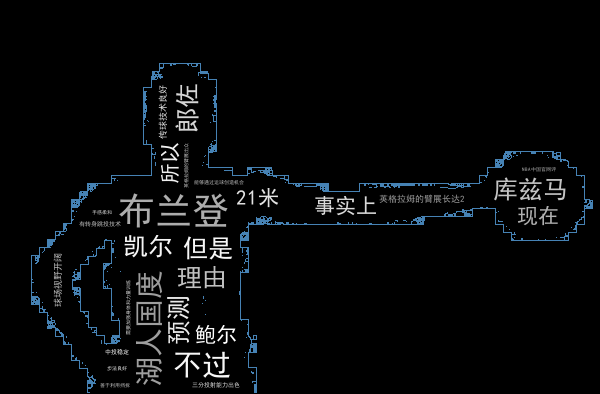
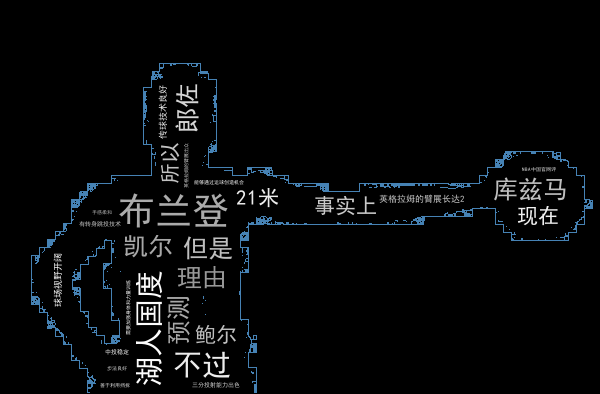
update my profile

diff --git a/worldCloud.py b/worldCloud.py
@@ -12,6 +12,7 @@ import random
 
 import os
 
+#生成一张词云颜色是由灰色往白色随机
 def grey_color_func(word, font_size, position, orientation, random_stata=None, **kwargs):
 
     #颜色HSL(色度、饱和度、亮度),亮度随机
@@ -22,12 +23,12 @@ def grey_color_func(word, font_size, position, orientation, random_stata=None, *
 d = path.dirname(__file__)
 
 #读取背景图片
-
+#根据文档说明，遮罩图片的白色部分将被视作透明，只在非白色部分区域作图。找到黑色背景素材图。
 mask = np.array(Image.open(path.join(d, 'ingram3.jpg')))
 
 #读取一个txt文件
 
-text = open(u'source.txt', encoding='utf-8').read()
+text = open('source.txt', encoding='utf-8').read()
 
 #停用词词库
 
@@ -40,7 +41,7 @@ stopwords.add("ext")
 #设置词云属性，其中第一个参数非常重要，若没有正确设置，
 
 #将不能解析中文，出现乱码
-
+#从文本生成词云图
 wc = WordCloud(font_path='./fonts/simhei.ttf', max_words=2000, mask=mask,
 
                stopwords=stopwords, margin=10,
@@ -49,19 +50,21 @@ wc = WordCloud(font_path='./fonts/simhei.ttf', max_words=2000, mask=mask,
                contour_width=1, contour_color='steelblue',
 
                random_state=2).generate(text)
-
+#以numpy矩阵的格式返回词云图
 default_colors = wc.to_array()
 
 plt.title("Custom colors")
+#重新上色
+#random_state:随机种子，整型或None
+plt.imshow(wc.recolor(color_func=grey_color_func, random_state=None))
 
-plt.imshow(wc.recolor(color_func=grey_color_func, random_state=3))
-
+#保存图片
 wc.to_file('001.png')
 
 plt.axis("off")#不显示坐标尺寸
 
 #显示生成的ciyun
-
+#画图
 plt.figure()
 plt.title("Mixure colors")
 

diff --git a/profile.py b/profile.py
@@ -1,0 +1,57 @@
+from os import path
+from PIL import Image#打开图片
+import numpy as np#用矩阵加载图片数据
+import matplotlib.pyplot as plt#画图
+from wordcloud import WordCloud,STOPWORDS
+import random
+
+#获取当前根目录
+pwd = path.dirname(__file__)
+txt_path = path.join(pwd, 'bigdata.txt')
+#读取数据源文件
+text = open(txt_path, encoding='utf-8').read()
+
+image_path = path.join(pwd, 'huge.jpg')
+#image打开图片
+image_open = Image.open(image_path)
+#使用numpy加载图片矩阵信息
+alice_mask = np.array(image_open)
+
+#排除文本种的单词，譬如said
+stopwords = STOPWORDS.add("said")
+
+wc = WordCloud(
+            #background_color = "white",
+                random_state=1，#随机上色1号随机种子
+               max_words = 1000,
+               mask = alice_mask,#词云再图片显示的区域
+               stopwords = stopwords
+               )
+wc = wc.generate(text)#生成词云
+
+save_path = path.join(pwd, "profile.png")
+wc.to_file(save_path)
+
+#生成一张黑色背景，词云为彩色的图片
+
+#灰色到白色过度颜色随机
+def gray_color_func(word, font_size, position, orientation, random_stata=None, **kwargs):
+    #颜色HSL(色度、饱和度、亮度),亮度随机
+    return 'hsl(0, 0%%, %d%%)' % random.randint(60, 100)
+
+#展示图片
+plt.imshow(wc)
+plt.axis("off")
+
+#又画一张图
+plt.figure()
+#灰色
+wc_gray = wc.recolor(color_func = gray_color_func, random_state=None)
+plt.imshow(wc_gray)
+plt.axis("off")
+
+#画一张图
+plt.figure()
+plt.imshow(alice_mask, cmap=plt.cm.gray)
+plt.axis("off")
+plt.show()
